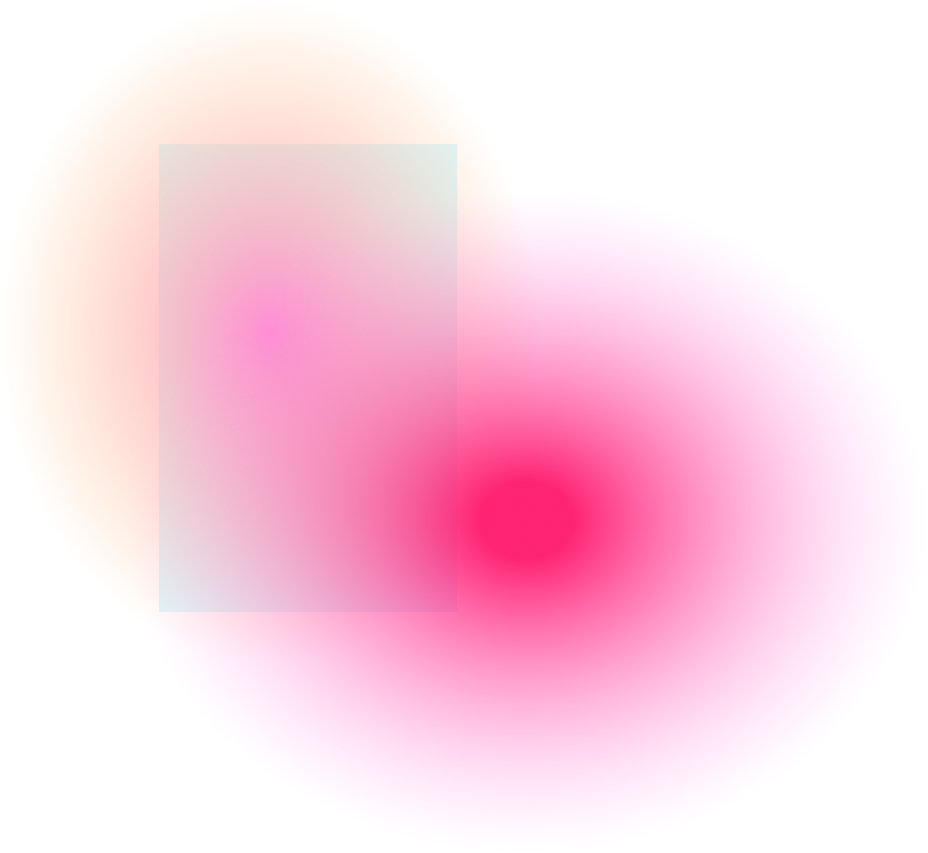
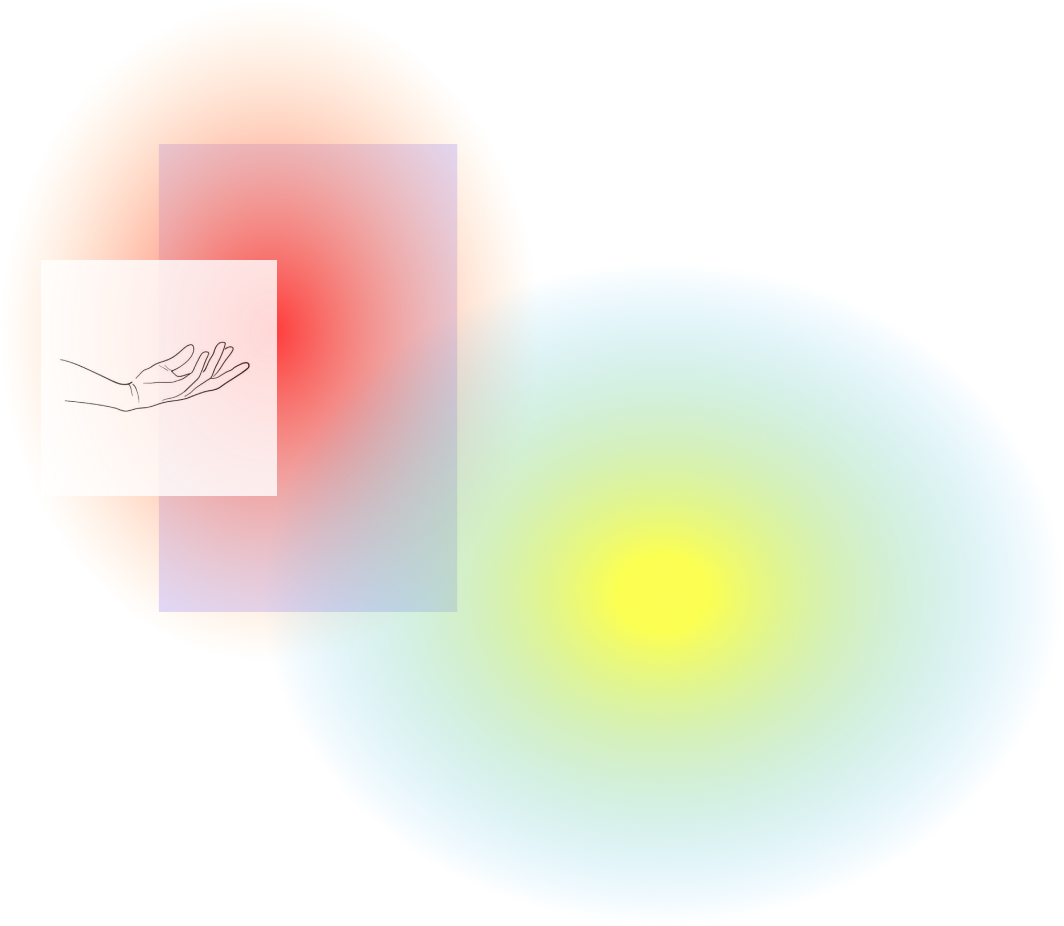
Update colors and design

diff --git a/src/pages/index.js b/src/pages/index.js
@@ -10,7 +10,7 @@ import { device } from "../components/device"
 
 const GlobalStyle = createGlobalStyle`
   html {
-    background-color: #FFF8EE;
+    background-color: #EFE4D9;
   }
 
   body {
@@ -18,7 +18,7 @@ const GlobalStyle = createGlobalStyle`
     align-items: center;
     justify-content: center;
     font-family: "Inter";
-    color: #63003B;
+    color: #460000;
     background: url(${background});
     background-size: auto;
     background-repeat: no-repeat;
@@ -29,6 +29,7 @@ const GlobalStyle = createGlobalStyle`
     body {
       display: block;
       padding: 0 1em;
+      background-position-x: right;
     }
   }
 
@@ -77,7 +78,7 @@ const ContentWrapper = styled.div`
 `
 
 const Section = styled.div`
-  width: 470px;
+  width: 500px;
   display: block;
   margin-bottom: 4em;
 
@@ -94,6 +95,72 @@ const Title = styled.p`
 `
 
 const Content = styled.div``
+
+const Chart = styled.div`
+  display: grid;
+  grid-template-columns: 1fr 3fr repeat(2, 1fr);
+  grid-template-rows: auto auto auto;
+  grid-column-gap: 10px;
+  grid-row-gap: 10px;
+  font-size: 12px;
+  padding-top: 1em;
+`
+
+const FirstChartItem = styled.div`
+  grid-area: 1 / 1 / 2 / 2;
+  font-family: "Maria";
+  text-transform: uppercase;
+`
+
+const SecondChartItem = styled.div`
+  grid-area: 1 / 2 / 2 / 3;
+  font-family: "Maria";
+  text-transform: uppercase;
+`
+
+const ThirdChartItem = styled.div`
+  grid-area: 1 / 3 / 2 / 4;
+  font-family: "Maria";
+  text-transform: uppercase;
+`
+
+const FourthChartItem = styled.div`
+  grid-area: 1 / 4 / 2 / 5; 
+  font-family: "Maria";
+  text-transform: uppercase;
+`
+
+const FifthChartItem = styled.div`
+  grid-area: 2 / 1 / 3 / 2;
+`
+
+const SixthChartItem = styled.div`
+  grid-area: 2 / 2 / 3 / 3;
+`
+
+const SeventhChartItem = styled.div`
+  grid-area: 2 / 3 / 3 / 4;
+`
+
+const EighthChartItem = styled.div`
+  grid-area: 2 / 4 / 3 / 5;
+`
+
+const NinthChartItem = styled.div`
+  grid-area: 3 / 1 / 4 / 2;
+`
+
+const TenthChartItem = styled.div`
+  grid-area: 3 / 2 / 4 / 3;
+`
+
+const EleventhChartItem = styled.div`
+  grid-area: 3 / 3 / 4 / 4;
+`
+
+const TwelfthChartItem = styled.div`
+  grid-area: 3 / 4 / 4 / 5;
+`
 
 const Pics = styled.div`
 
@@ -143,6 +210,27 @@ export default function Home() {
             <p>Three-card spread readings typically last 15-20 minutes. The cards represent either Past, Present, and Future or Mind, Body, and Spirit. Your choice. Suggested donation is $15.</p>
 
             <p>The eleven-card spread is our variation on the Celtic Cross. These full, thorough readings give you insight into the core of a situation, including information about your past, present, future, highest self, environment, hopes and fears, and outcome. They typically last around 45 minutes, and suggested donation is $30.</p>
+          </Content>
+        </Section>
+        <Section>
+          <Title>What kinds of readings are there?</Title>
+          <Content>
+            <p>We offer two kinds of readings: the three-card spread and the eleven-card spread.</p>
+
+            <Chart>
+              <FirstChartItem>Spread</FirstChartItem>
+              <SecondChartItem>Description</SecondChartItem>
+              <ThirdChartItem>Duration</ThirdChartItem>
+              <FourthChartItem>Suggested Donation</FourthChartItem>
+              <FifthChartItem>Three Cards</FifthChartItem>
+              <SixthChartItem>The cards represent either Past, Present, and Future or Mind, Body, and Spirit. Your choice. </SixthChartItem>
+              <SeventhChartItem>15-20min</SeventhChartItem>
+              <EighthChartItem>$10</EighthChartItem>
+              <NinthChartItem>Eleven Cards</NinthChartItem>
+              <TenthChartItem>Our variation on the Celtic Cross. These full, thorough readings give you insight into the core of a situation, including information about your past, present, future, highest self, environment, hopes and fears, and outcome.</TenthChartItem>
+              <EleventhChartItem>45min</EleventhChartItem>
+              <TwelfthChartItem>$20</TwelfthChartItem>
+            </Chart>
           </Content>
         </Section>
         <Section>
